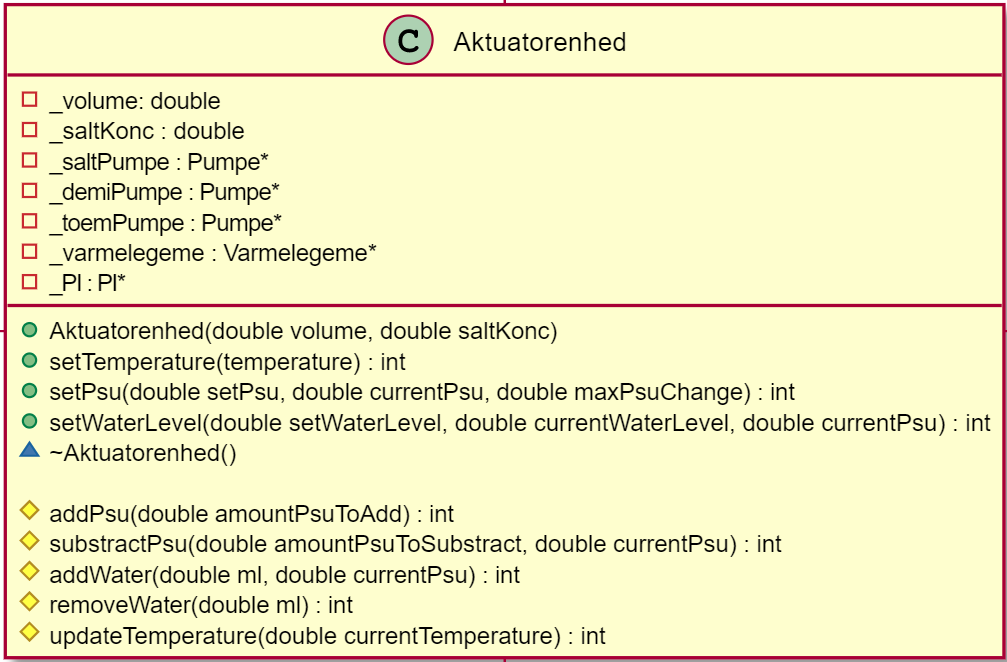
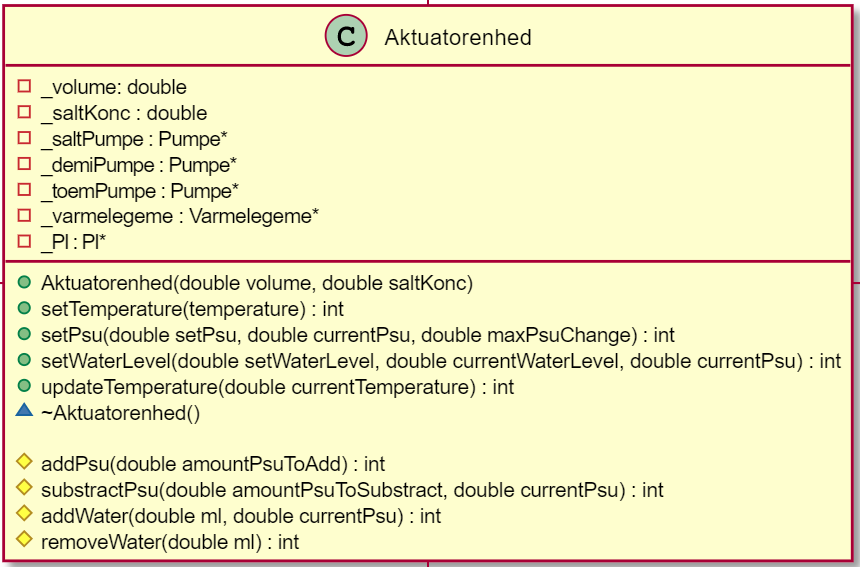
.

Changed region(s): [[0.0, 0.0, 1.0, 1.0]]

diff --git a/Design/Akutuator enhed/Software/AE_klasser/AE.cpp b/Design/Akutuator enhed/Software/AE_klasser/AE.cpp
@@ -17,12 +17,12 @@ int Aktuatorenhed::addPsu(double amountPsuToAdd)
 {                      
     double ml = (_volume/(10*_saltKonc))*amountPsuToAdd;       //Mængde saltvand der skal tilføjdes (se Analyse/Aktuatorenhed/Pumper)
      
-    _toemPumpe->activatePump(10)                    //dutycycle 10%, pumper langsomt 1 ml pr 0.07 sekunder
-    sleep(ml * 0.07);                               //wait "pumping" (fjerner akvarievand)
+    _toemPumpe->activatePump(10)                    //dutycycle 25%, pumper langsomt 1 ml pr 0.062 sekunder
+    sleep(ml * 0.062);                               //wait "pumping" (fjerner akvarievand)
     _toemPumpe->deactivatePump();                    //Pumpe OFF
 
-    _saltPumpe->activatePump(10);                   //dutycycle 10%, pumper langsomt 1 ml pr 0.07 sekunder
-    sleep(ml * 0.07);                               //wait "pumping" (tilføjer saltvand)
+    _saltPumpe->activatePump(10);                   //dutycycle 25%, pumper langsomt 1 ml pr 0.062 sekunder
+    sleep(ml * 0.062);                               //wait "pumping" (tilføjer saltvand)
     _saltPumpe->deactivatePump();                    //Pumpe OFF
 
     return 0;
@@ -32,12 +32,12 @@ int Aktuatorenhed::substractPsu(double psu, double currentPsu)
 {
     double ml = psuToMl(psu, currentPsu, _volume);  //retunere mængden af akvarievand der skal erstattes med demineraliseretvand for at reducere med x psu
     
-    _toemPumpe->activatePump(90);                    //dutycycle 90%, pumper hutigt 1 ml pr 0.044 sekunder
-    sleep(ml * 0.044);                               //wait "pumping" (fjerner akvarievand)
+    _toemPumpe->activatePump(90);                    //dutycycle 100%, pumper hutigt 1 ml pr 0.042 sekunder
+    sleep(ml * 0.042);                               //wait "pumping" (fjerner akvarievand)
     _toemPumpe->deactivatePump();                    //Pumpe OFF
 
-    _demiPumpe->activatePump(90);                    //dutycycle 90%, pumper hutigt 1 ml/0.044 sekunder
-    sleep(ml * 0.044);                               //wait "pumping" (tilføjer demineraliseret vand)
+    _demiPumpe->activatePump(90);                    //dutycycle 100%, pumper hutigt 1 ml/0.042 sekunder
+    sleep(ml * 0.042);                               //wait "pumping" (tilføjer demineraliseret vand)
     _demiPumpe->deactivatePump();                    //Pumpe OFF
     
     return 0;
@@ -47,12 +47,12 @@ int Aktuatorenhed::addWater(double ml, double currentPsu)
 {
     double mlSaltvand = (ml/(10*_saltKonc))*currentPsu; //Mængde saltvand der skal tilføjdes (se Analyse/Aktuatorenhed/Pumper)
 
-    _demiPumpe->activatePump(90);                    //dutycycle 90%, pumper hutigt 1 ml/0.044 sekunder
-    _saltPumpe->activatePump(90);;                   //dutycycle 90%, pumper hutigt 1 ml/0.044 sekunder
-    sleep(mlSaltvand * 0.044);                       //wait "pumping" (tilføjer saltvand og demineraliseret vand) 
+    _demiPumpe->activatePump(90);                    //dutycycle 100%, pumper hutigt 1 ml/0.042 sekunder
+    _saltPumpe->activatePump(90);;                   //dutycycle 100%, pumper hutigt 1 ml/0.042 sekunder
+    sleep(mlSaltvand * 0.042);                       //wait "pumping" (tilføjer saltvand og demineraliseret vand) 
 
     _saltPumpe->deactivatePump();                    //Saltvandspumpe OFF
-    sleep((ml-mlSaltvand) * 0.044);                  //wait "pumping" (demineraliseret vand) 
+    sleep((ml-mlSaltvand) * 0.042);                  //wait "pumping" (demineraliseret vand) 
     _demiPumpe->deactivatePump();                    //Demineraliseret vandpumpe OFF
 
     return 0;
@@ -60,8 +60,8 @@ int Aktuatorenhed::addWater(double ml, double currentPsu)
 
 int Aktuatorenhed::removeWater(double ml)
 {
-    _toemPumpe->activatePump(90);                   //dutycycle 90%, pumper hutigt 1 ml/0.044 sekunder
-    sleep(ml * 0.044);                               //wait "pumping" (fjerner akvarievand)
+    _toemPumpe->activatePump(90);                   //dutycycle 100%, pumper hutigt 1 ml/0.042 sekunder
+    sleep(ml * 0.042);                               //wait "pumping" (fjerner akvarievand)
     _toemPumpe->deactivatePump();                    //Pumpe OFF
 
     return 0;

diff --git a/Design/Akutuator enhed/Software/AE_klasser/PID.cpp b/Design/Akutuator enhed/Software/AE_klasser/PID.cpp
@@ -1,0 +1,56 @@
+#include "PID.hpp"
+
+PID::PID(double Kp, double Ki, double Kd, double dt, double minOut, double maxOut){
+        _Kp = Kp;
+        _Ki = Ki;
+        _Kd = Kd;
+        _deltaTime = dt;
+        _preError = 0;
+        _integral = 0;
+        _out = 0;
+    }
+
+int PID::calculate(double setpoint, double measured, double resultBuffer){
+        
+    double error = setpoint-measured;   //calculate error
+
+    //-------------Proportional part--------------
+
+    double pOut = _Kp * error;         //proportional part
+
+    //-------------Integral part-----------------
+  
+    _integral = error * _deltaTime;    //Integral
+    double iOut = _Ki * _integral;     //Integral part
+
+    //-------------Derivative part-----------------
+    double derivative, dOut;
+    
+    if (_preError != 0)                //Sikre der er taget min to målinger, før hældningen udregnes.
+    {
+        derivative = (error - _preError) / _deltaTime;
+        dOut = derivative * _Kd;
+    }
+    //-------------Total out------------------------
+    _out = pOut + iOut + dOut;
+
+    if (_out < _minOut)
+        _out = _minOut;
+    if (_out > _maxOut)
+        _out = _maxOut;
+
+    resultBuffer = _out;
+    _preError = error;                  //save last error.
+
+    if (_out == _minOut)
+        return -1;
+    else if (_out == _maxOut)
+        return -2;
+
+    return 0;
+    
+    }
+
+double PID::getOutput(){
+    return _out;
+}

diff --git a/Design/Akutuator enhed/Software/AE_klasser/Varmelegeme.cpp b/Design/Akutuator enhed/Software/AE_klasser/Varmelegeme.cpp
@@ -1,21 +1,24 @@
 #include "Varmelegeme.hpp"
+#define HALF_HERTZ_CONSTANT 2000000/100                            //Opløsning af PWM = 100ms. 2 mil = 0.5 Hz. 1%PWM = 2mil/100
 
 Varmelegeme::Varmelegeme(int GPIO)
 {
     _GPIO = GPIO;
 
-    int err = softPwmCreate(_GPIO, 0, 100);         //initialize GPIO til PWM pin, med range 0-100%
+    int err = softPwmCreate(_GPIO, 0, 2000000);                         //initialize GPIO til PWM pin, 0.5 Hz med range 0-100%
     if (err != 0)
         std::cout << "PWM pin for varmelegeme, with GPIO (" << _GPIO << ") not initialized. ERROR: " << err << endl;
     softPwmWrite(_GPIO, 0); 
+
+    
 }
 
  int Varmelegeme::setDutycycle(double dutycycle)
 {
-    softPwmWrite(_GPIO, (int)dutycycle);                 //wiring PI metode. Sætter PWM dutycycle. 
-}
+    softPwmWrite(_GPIO, (int)(dutycycle*HALF_HERTZ_CONSTANT));      //wiring PI metode. Sætter PWM dutycycle.                                                                     //
+}                                                                        //convertere dutycycle til hvor mange steps af de 2 milioner, der skal være on.
 
 Varmelegeme::~Varmelegeme()
 {
-    softPwmWrite(_GPIO, 0);                         //Sætter dutycycle til 0, Wiring PI frigiver selv GPIO porten.
+    softPwmWrite(_GPIO, 0);                                             //Sætter dutycycle til 0, Wiring PI frigiver selv GPIO porten.
 }

diff --git a/Design/Akutuator enhed/Software/AE_klasser/PID.hpp b/Design/Akutuator enhed/Software/AE_klasser/PID.hpp
@@ -1,0 +1,22 @@
+class PID{
+    private:
+        double _Kp;         //proportional konstant
+        double _Ki ;        //Integral konstant
+        double _Kd;         //Differntial konstant
+        double _deltaTime;  //Tid mellem hvert sample (bruges til integral regning)
+        double _preError;   //Afstand mellem setpoint og mplte værdi 
+        double _integral;   //Samlet integrale
+        double _minOut;      
+        double _maxOut;
+        double _out;
+    public:
+        PID(double Kp, double Ki, double Kd, double dt, double minOut, double maxOut);
+        int calculate(double setpoint, double measured, double resultBuffer);
+        void setKp(double Kp);
+        void setKi(double Kp);
+        void setKd(double Kp);
+        double getKp(void);
+        double getKi(void);
+        double getKd(void);
+        double getOutput(void);
+    };

diff --git a/Design/Akutuator enhed/Software/AE_klasser/Pumpe.cpp b/Design/Akutuator enhed/Software/AE_klasser/Pumpe.cpp
@@ -1,18 +1,19 @@
 #include "Pumpe.hpp"
+#define ONEKILO_HERTZ_CONSTANT 10/100           
 
 Pumpe::Pumpe(int GPIO)
  {
     _GPIO = GPIO;
 
-    int err = softPwmCreate(_GPIO, 0, 100);      //initialize GPIO til PWM pin, med range 0-100%
+    int err = softPwmCreate(_GPIO, 0, 10);      //initialize GPIO til PWM pin, med range 0-100%
     if (err != 0)
         std::cout << "PWM pin for pump, with GPIO (" << _GPIO << ") not initialized. ERROR: " << err << endl;   
-    softPwmWrite(_GPIO, 0);
+    softPwmWrite(_GPIO, 0);                    //dutycycle = 0%
 }
 
 void Pumpe::activatePump(int dutycycle)
 {
-    softPwmWrite(_GPIO, dutycycle);              //wiring pi metode. Sætter PWM dutycycle
+    softPwmWrite(_GPIO, (ONEKILO_HERTZ_CONSTANT*dutycycle));              //wiring pi metode. Sætter PWM dutycycle
 }
 
 void Pumpe::deactivatePump()

diff --git a/Design/Akutuator enhed/Software/AE_klasser/AE.hpp b/Design/Akutuator enhed/Software/AE_klasser/AE.hpp
@@ -16,6 +16,7 @@ class Aktuatorenhed
         int setTemperatur(double setTemperatur, double currentTemperatur);
         int setPsu(double setPsu, double currentPsu, double maxPsuChange);
         int setWaterLevel(double setWaterLevel, double currentWaterLevel, double currentPsu);
+        int updateTemperature(double currentTemperature);
         ~Aktuatorenhed();
     
     protected: 
@@ -23,7 +24,7 @@ class Aktuatorenhed
         int substractPsu(double amountPsuTosubstract, double currentPsu);
         int addWater(double ml, double currentPsu);
         int removeWater(double ml);
-        int updateTemperature(double currentTemperature);
+        
         
     private: 
         double _volume;     //Total mængde vand i akvariet

diff --git a/Design/Akutuator enhed/Software/AE_klasser/main.cpp b/Design/Akutuator enhed/Software/AE_klasser/main.cpp
@@ -1,6 +1,19 @@
 #include "AE.hpp"
 
+
+Aktuatorenhed AE(30000, 26.3);
+
 int main(void)
 {
-    Aktuatorenhed AE(25000, 31.5);
+    
+
+    //tråd 1 en gang hver 15 min
+    AE.setPsu(GUI.getsalt(), sensor.getsalt(),0.25);
+    AE.setTemperatur(30,21);
+    
+    AE.setWaterLevel(25, sensor.getWaterLevel(), sensor.getsalt())
+
+
+    //tråd 2 en gang hver 60 sek
+    AE.updateTemperature(sensor.getsalt());
 }
